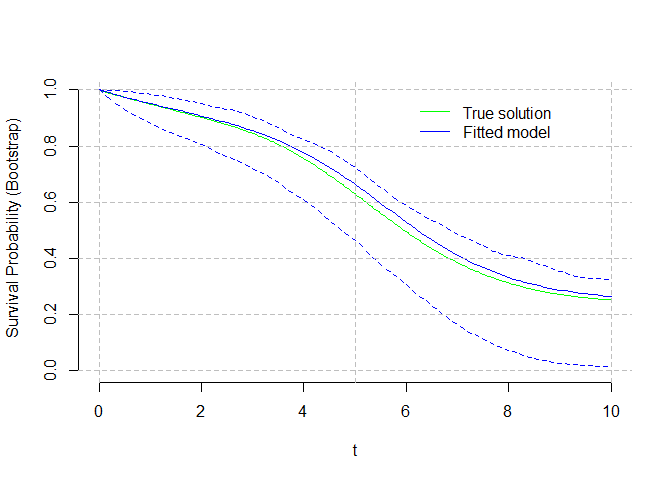
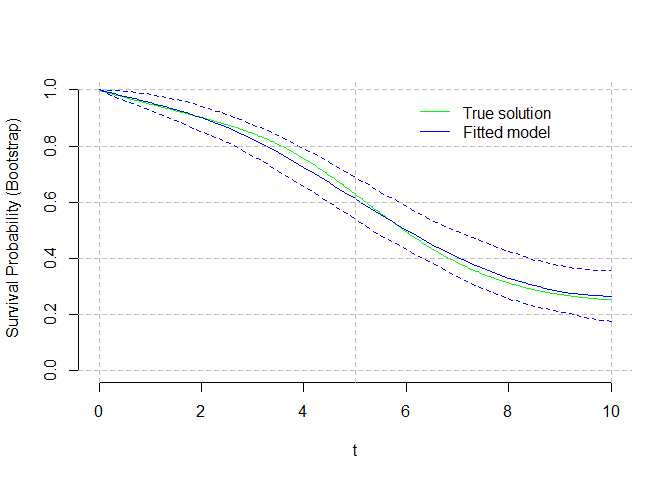
Fixed the cacluation of the objective function with unfeasible values

diff --git a/README.md b/README.md
@@ -79,16 +79,23 @@ hist( SimDat$time[ which(SimDat$status==0)], main="", xlab="t", breaks="Freedman
    # Result = hspcore(yd=SimDat, ORDER=4, knots=c(0,1,3,6,10), time=timeout, Bootstrap = 120, verbose=FALSE )   
    Result = hspcore(yd=SimDat, ORDER=4, Exterior.knots = c(0,10), Interior.knots=NULL, SelectBestKnots = TRUE, time=timeout, Bootstrap = 200, verbose=FALSE )  
 #> [1] "Automatic search for K the number of interior knots of the B-spline hazard function"
-#> [1] "K= 1 AICc=291.454100954995 knots= 0 5.1 10"
-#> [1] "K= 2 AICc=289.735447782933 knots= 0 4.1 6 10"
-#> [1] "K= 3 AICc=291.259088166863 knots= 0 3.2 5.1 6.7 10"
-#> [1] "K= 4 AICc=293.260029150116 knots= 0 2.9 4.6 5.7 6.9 10"
-#> [1] "K= 5 AICc=295.00591310047 knots= 0 2.4 4.1 5.1 6 7.1 10"
-#> [1] "K= 6 AICc=297.449056769988 knots= 0 2.2 3.6 4.7 5.6 6.5 7.3 10"
-#> [1] "K= 7 AICc=298.921782713427 knots= 0 2.1 3.2 4.4 5.1 5.9 6.7 7.5 10"
-#> [1] "K= 8 AICc=298.284338898161 knots= 0 1.6 3 4.1 4.8 5.4 6 6.8 7.6 10"
-#> [1] "SEARCH RESULT: We use 2 interior B-spline knots"
-#> [1] "K= 2 DOF= 6 knots= 0 4.1 6 10"
+#> [1] "K=0, m2loglik=287.46, DOF=4, AIC=295.46, knots= 0 10"
+#> [1] "K=1, m2loglik=286.66, DOF=5, AIC=296.66, knots= 0 4.9 10"
+#> [1] "K=2, m2loglik=286.18, DOF=6, AIC=298.18, knots= 0 3.7 5.9 10"
+#> [1] "K=3, m2loglik=285.92, DOF=7, AIC=299.92, knots= 0 2.9 4.9 6.4 10"
+#> [1] "K=4, m2loglik=284.41, DOF=8, AIC=300.41, knots= 0 2.5 4.2 5.5 6.8 10"
+#> [1] "K=5, m2loglik=284.37, DOF=9, AIC=302.37, knots= 0 2.2 3.7 4.9 5.9 7.2 10"
+#> [1] "K=6, m2loglik=284.29, DOF=10, AIC=304.29, knots= 0 1.7 3.4 4.4 5.4 6.2 7.5 10"
+#> [1] "K=7, m2loglik=283.06, DOF=11, AIC=305.06, knots= 0 1.6 2.9 4 4.9 5.6 6.4 7.7 10"
+#> [1] "K=8, m2loglik=282.14, DOF=12, AIC=306.14, knots= 0 1.4 2.8 3.7 4.5 5.2 5.9 6.6 7.9 10"
+#> [1] "K=9, m2loglik=281.36, DOF=13, AIC=307.36, knots= 0 1.4 2.5 3.5 4.2 4.9 5.5 6.1 6.8 7.9 10"
+#> [1] "K=10, m2loglik=280.68, DOF=14, AIC=308.68, knots= 0 1.4 2.4 3.3 3.9 4.6 5.2 5.6 6.2 7 8.2 10"
+#> [1] "K=11, m2loglik=280.24, DOF=15, AIC=310.24, knots= 0 1.3 2.2 2.9 3.7 4.4 4.9 5.4 5.9 6.4 7.2 8.3 10"
+#> [1] "K=12, m2loglik=279.9, DOF=16, AIC=311.9, knots= 0 1.3 2 2.9 3.5 4.2 4.6 5.1 5.6 6 6.5 7.3 8.4 10"
+#> [1] "K=13, m2loglik=280.39, DOF=17, AIC=314.39, knots= 0 1.2 1.7 2.7 3.4 3.8 4.4 4.9 5.4 5.7 6.2 6.7 7.5 8.4 10"
+#> [1] "K=14, m2loglik=279.08, DOF=18, AIC=315.08, knots= 0 1.1 1.6 2.5 3.2 3.7 4.2 4.6 5.1 5.5 5.9 6.3 6.8 7.7 8.4 10"
+#> [1] "SEARCH RESULT: We use 0 interior B-spline knots"
+#> [1] "K= 0 DOF= 4 knots= 0 10"
 #> [1] "Variance estimation using bootstrap"
 ```
 
